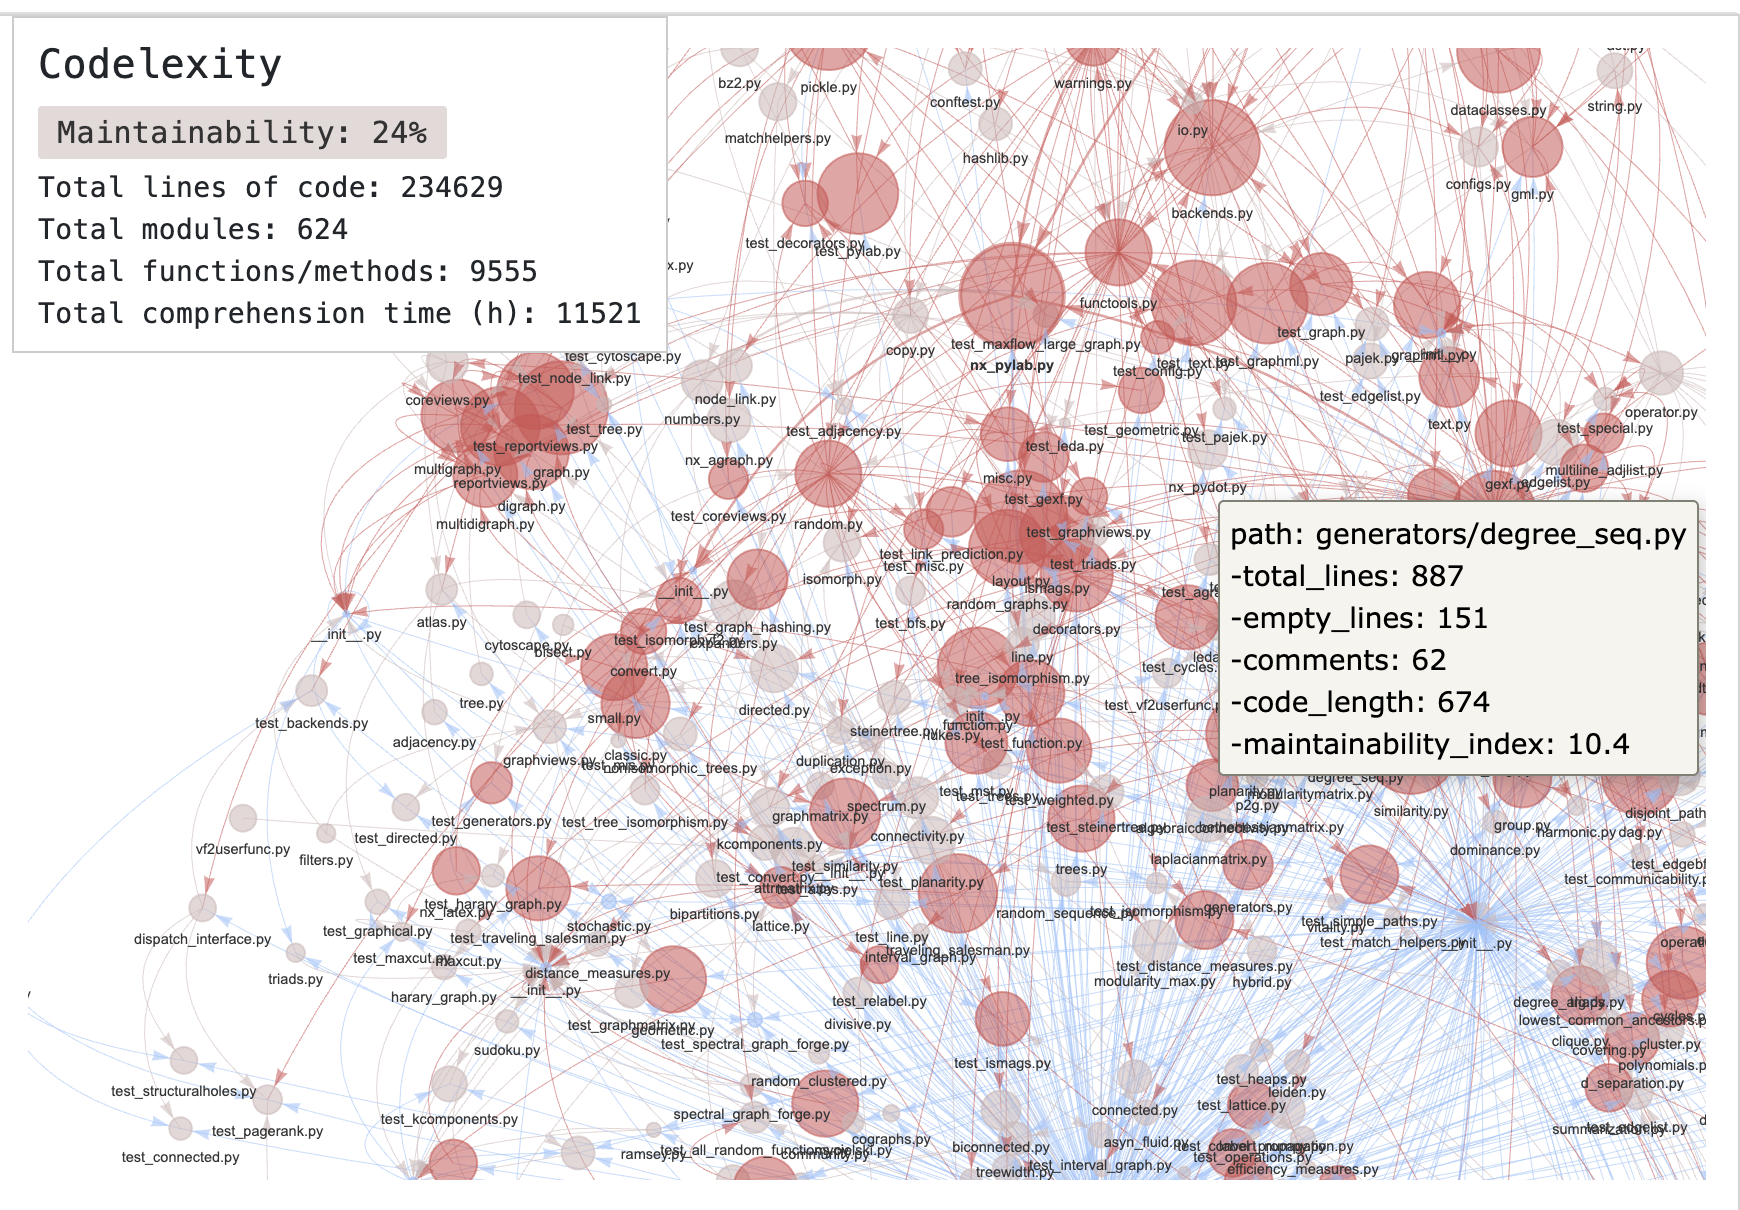
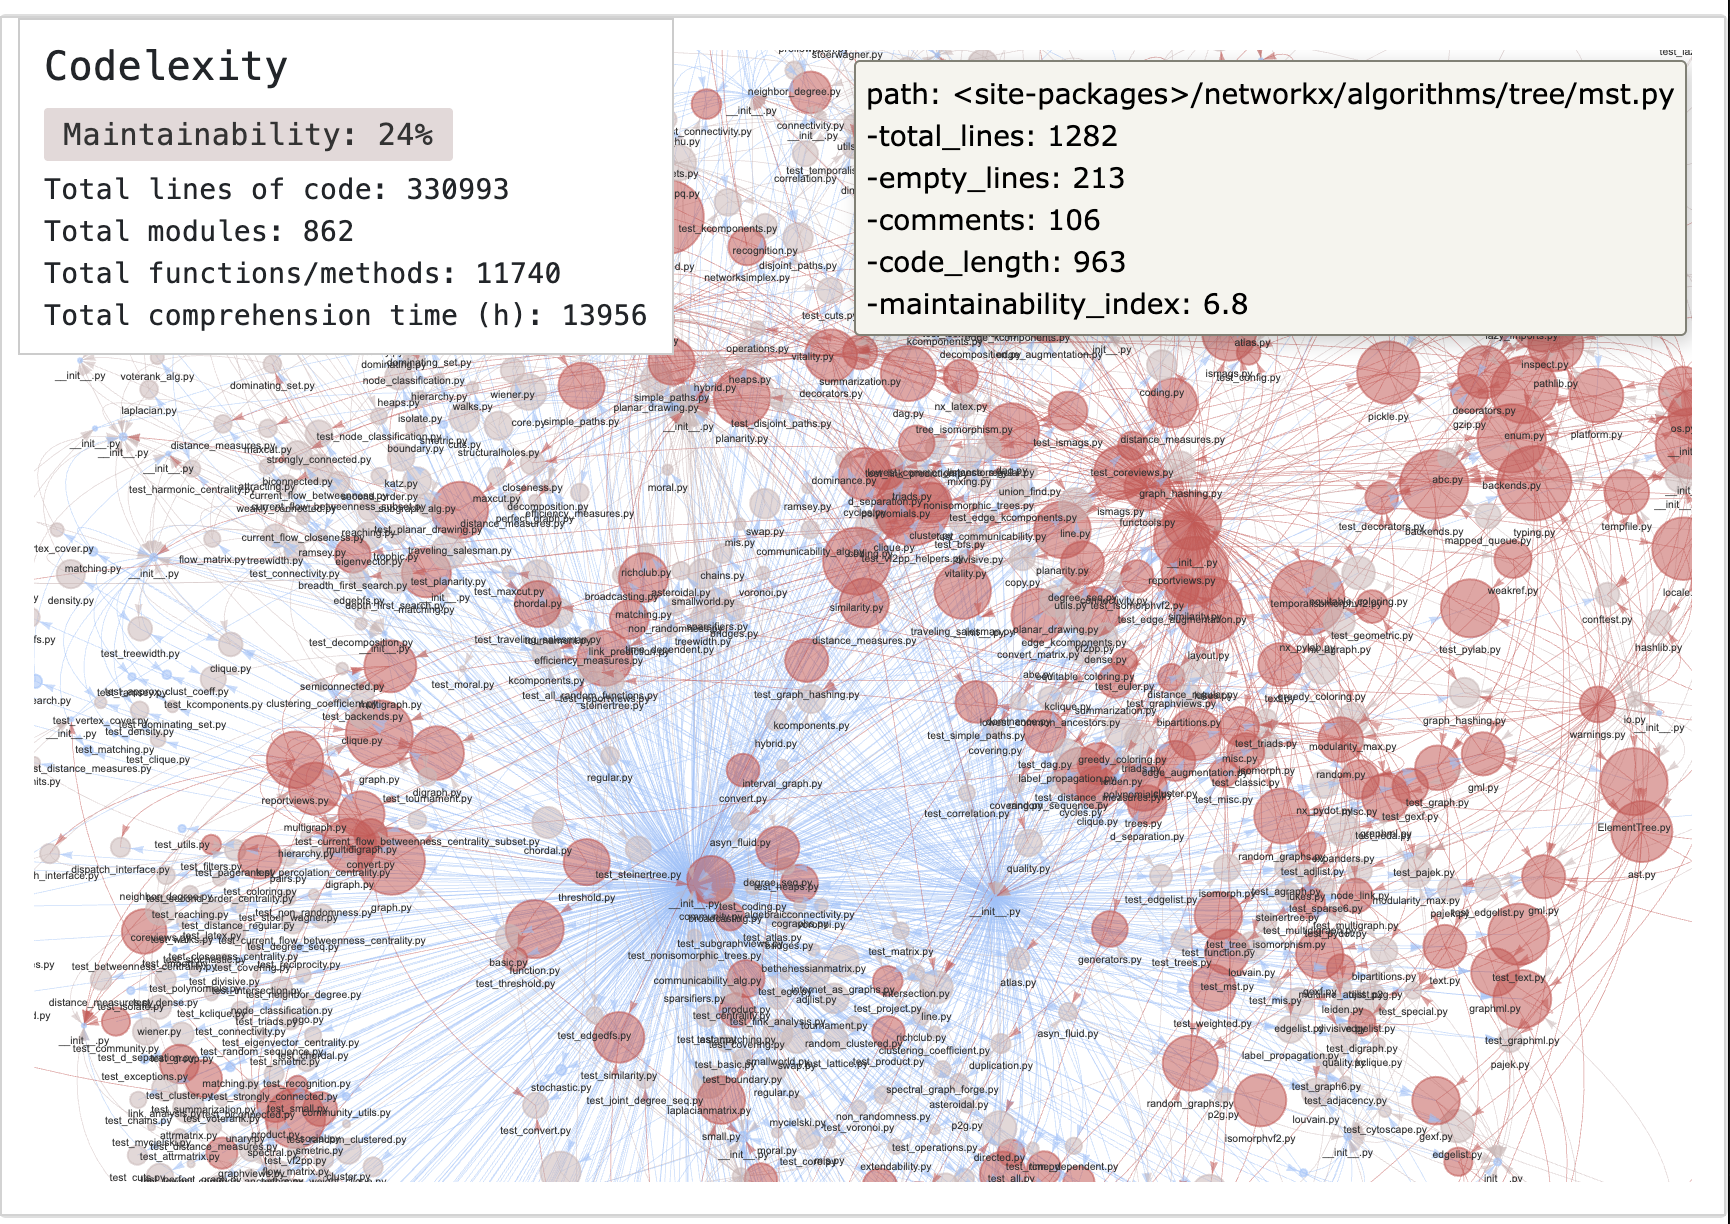
polishing README and assets

diff --git a/README.md b/README.md
@@ -20,6 +20,12 @@ In the age of AI, codebases are becoming messier and more difficult to maintain.
 ![Codelexity Graph](https://raw.githubusercontent.com/nickgiki/codelexity/main/assets/codelexity_codelexity.png)
 _Codelexity HTML report on the `codelexity` repo_
 
+**If you have an older version of python you can still run this package** on your codebase with `uv`:
+
+```bash
+uvx --python 3.11 codelexity <my-package-path>
+```
+
 
 ## Intuition
 
@@ -48,7 +54,7 @@ $$M=E-N+2P$$
 
 where $M$ the complexity, $E$ and $N$ the number of edges and nodes in the computation graph and $P$ the number of connected components.
 
-With Halstead's volume and McCabe's complexity one can compute the [**Maintainability Index**](https://ieeexplore.ieee.org/document/242525) computed as:
+With Halstead's volume and McCabe's complexity one can compute the [Maintainability Index](https://ieeexplore.ieee.org/document/242525) computed as:
 
 $$ 171 - 5.2 * log_2(V) - 0.23 * M- 16.2 * log_2(SLOC)+ 50 * \sqrt{2.4 * perCOM}$$
 
@@ -81,17 +87,18 @@ The `codelexity.json` containts aggregate analytics for the whole package and pe
 ```json
 {
     "analytics": {
-        "total_lines": 234629,
-        "total_functions": 9555,
-        "total_modules": 624
+        "total_lines": 330993,
+        "total_functions": 11740,
+        "total_modules": 862,
+        "total_man_hours": 13956
     },
     "modules": {
         "conftest.py": {
             "imports": [
+                "<site-packages>/networkx/__init__.py",
                 "<stdlib>/importlib/metadata/__init__.py",
                 "<stdlib>/os.py",
-                "<stdlib>/warnings.py",
-                "__init__.py"
+                "<stdlib>/warnings.py"
             ],
             "total_lines": 262,
             "empty_lines": 39,
@@ -99,20 +106,4 @@ The `codelexity.json` containts aggregate analytics for the whole package and pe
             "code_length": 211,
 ...
         }
-```
-
-## Running the tests
-
-The suite lives in `tests/` and uses the standard library's `unittest` — no test dependencies to install.
-
-```sh
-uv run python -m unittest discover        # all tests
-uv run python -m unittest discover -v     # verbose, one line per test
-```
-
-Coverage, which needs no dev dependency either:
-
-```sh
-uv run --with coverage coverage run --source=src -m unittest discover
-uv run --with coverage coverage report
 ```
